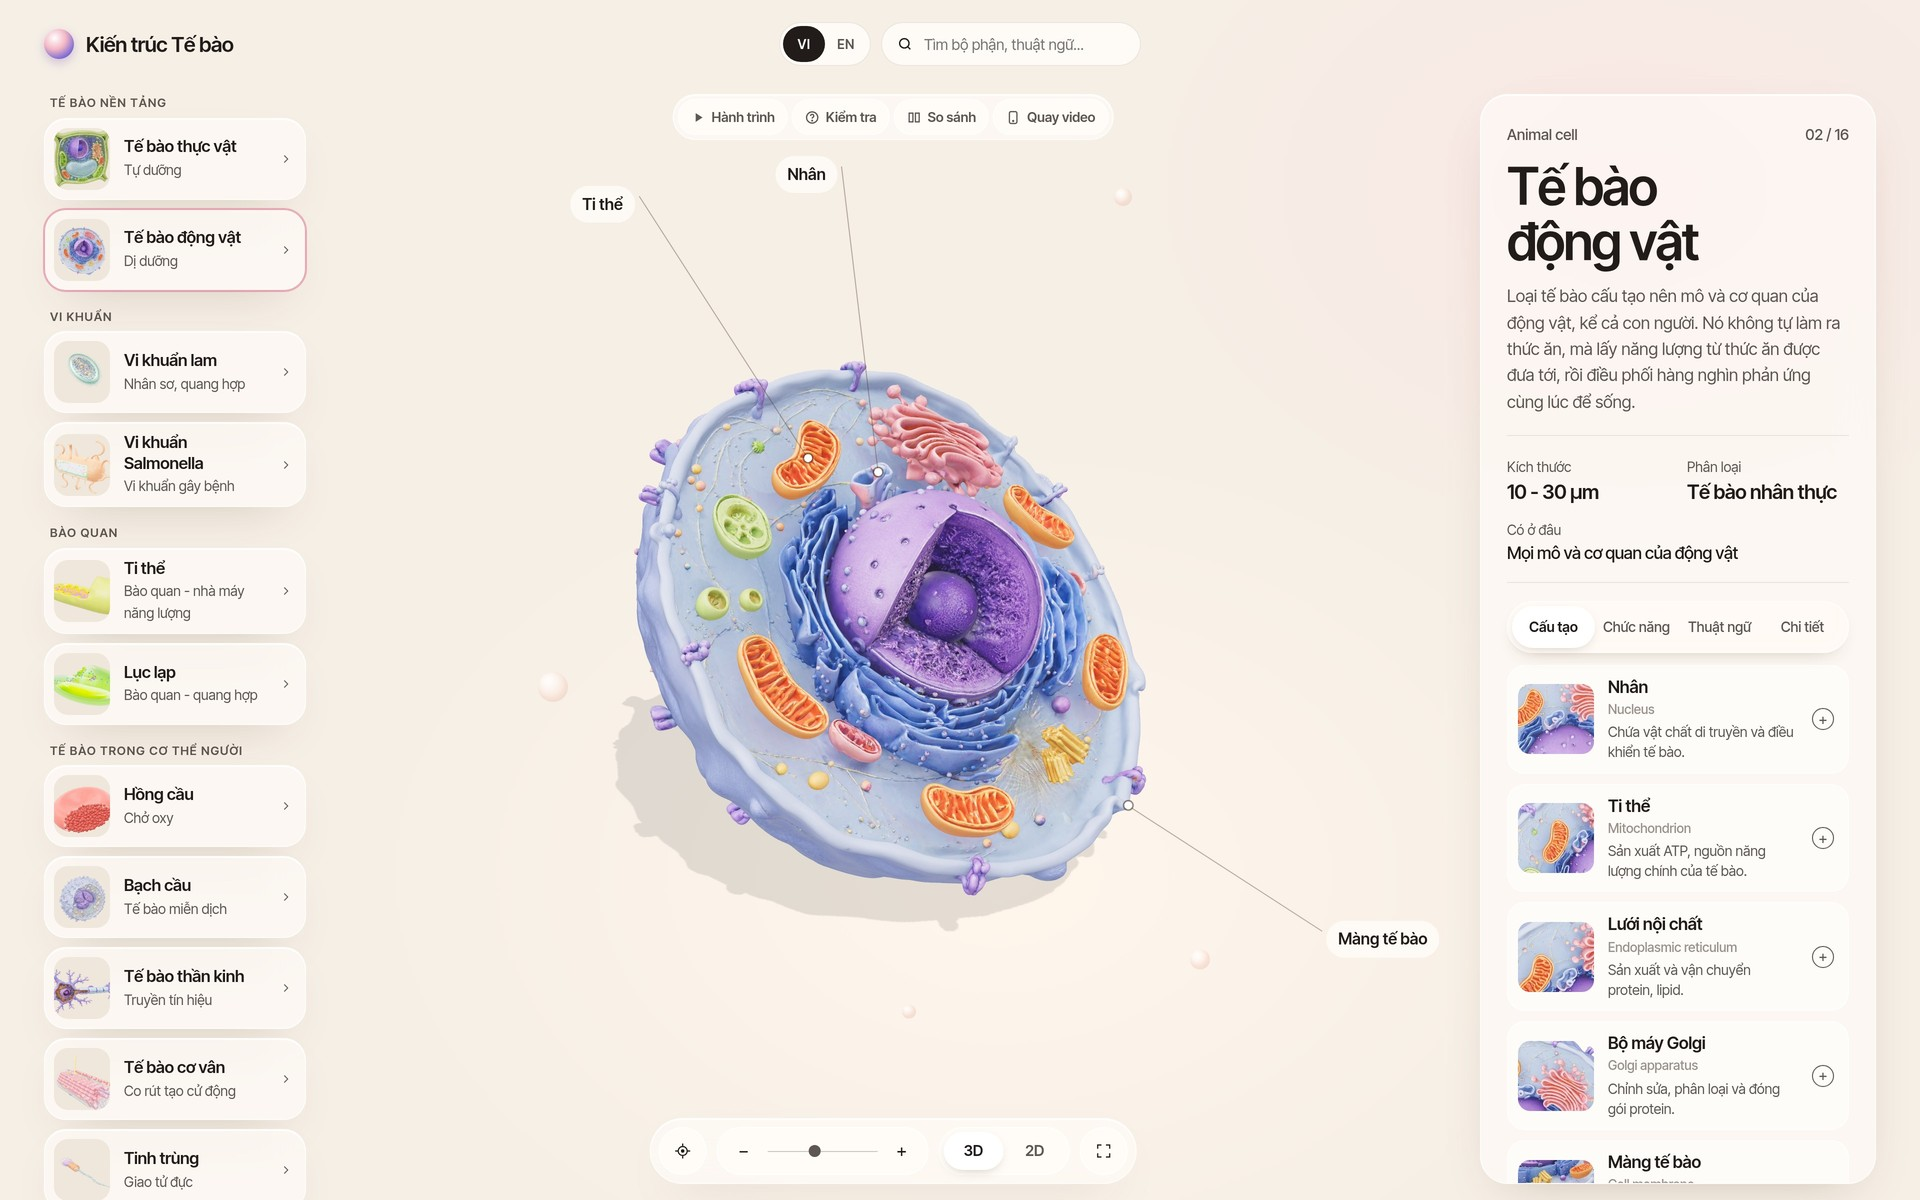
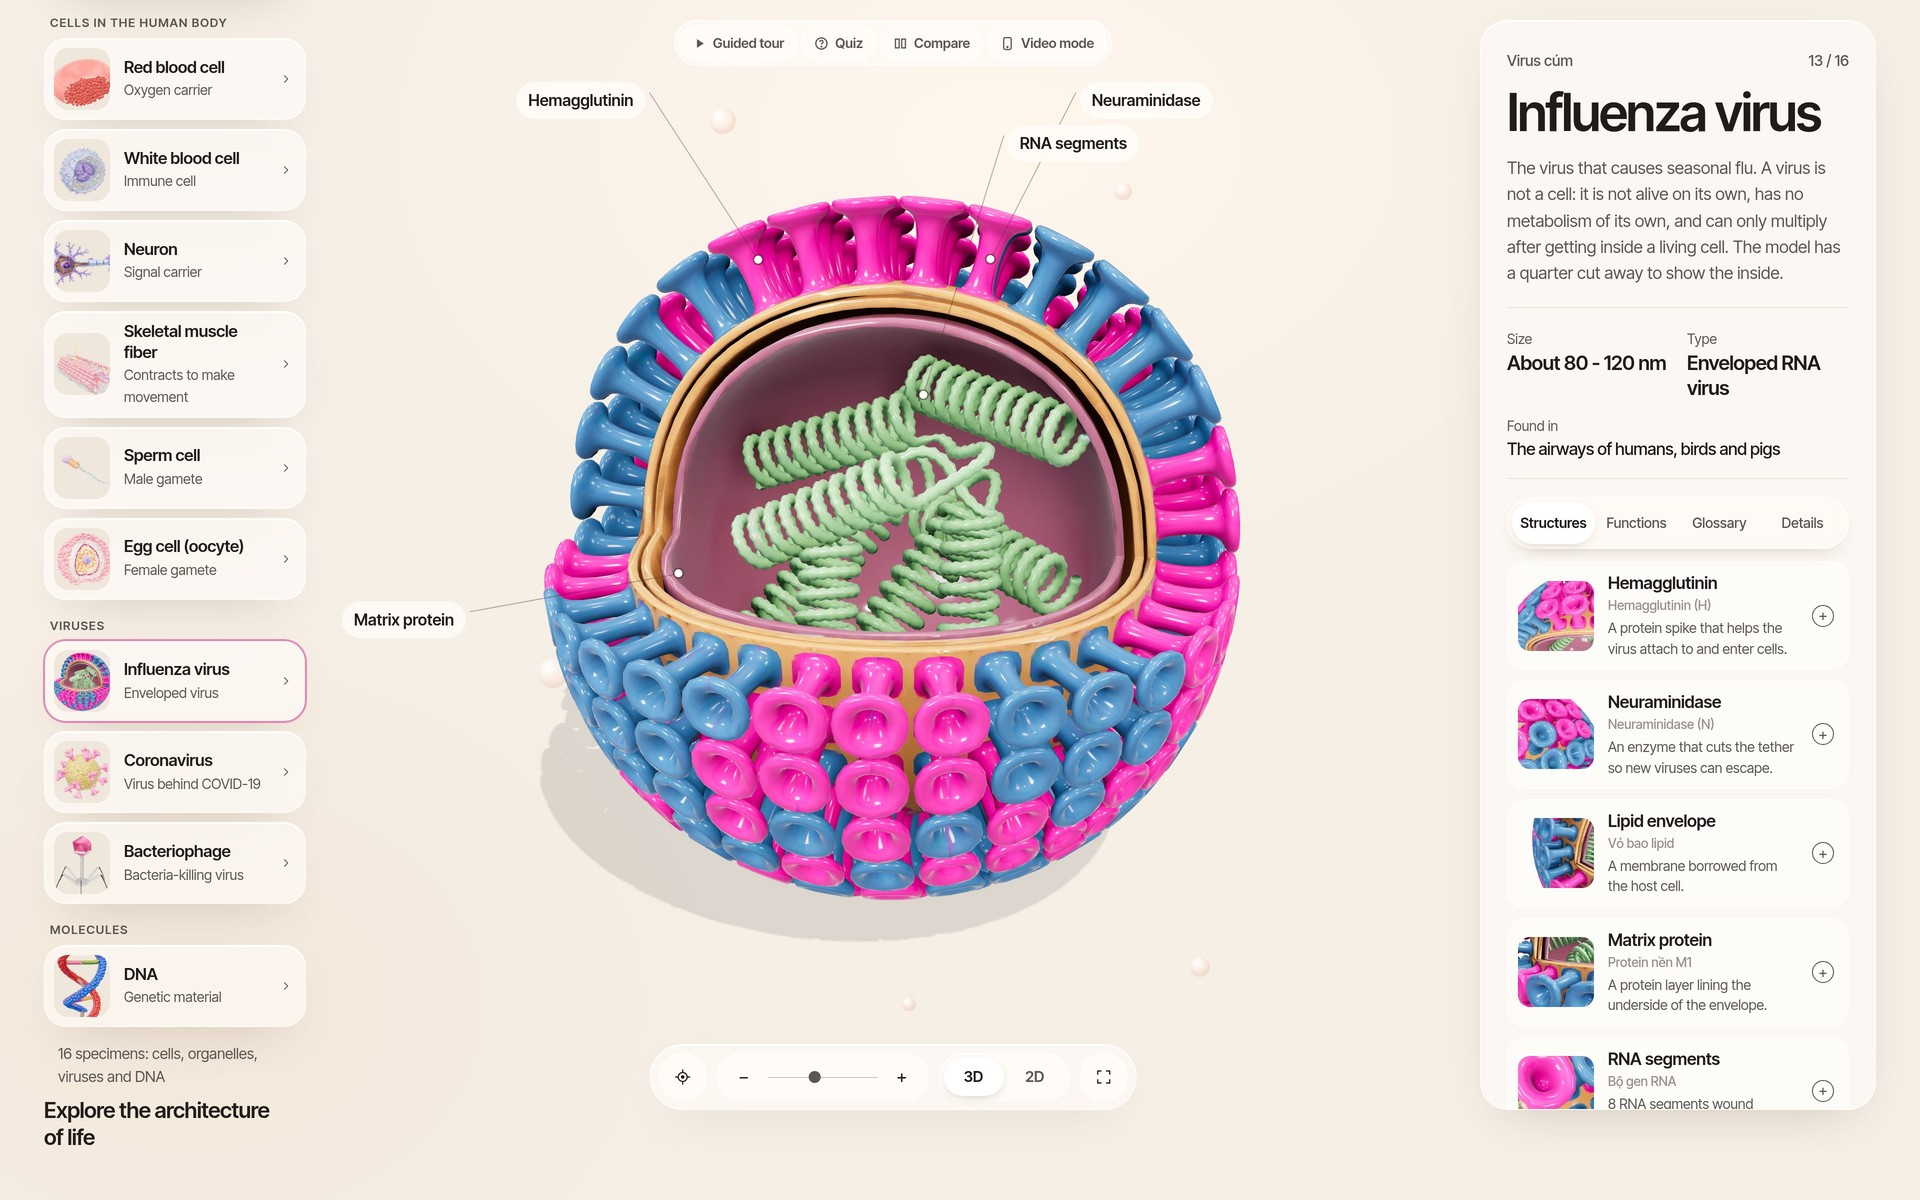
Show the English influenza view on the Cellis card.
The thumbnail is the influenza virus specimen after the app is switched to English and the 3D model has finished loading. The live and in-progress badges stay.

diff --git a/portfolio/index.html b/portfolio/index.html
@@ -881,7 +881,7 @@ details.more>summary:focus-visible{outline:2px solid #a78bfa;outline-offset:2px}
       <article class="card" style="--c1:rgba(192,132,252,.58);--c2:rgba(244,114,182,.38);--c1s:#d8b4fe;--glow:rgba(192,132,252,.45)">
         <div class="shot">
           <div class="fb">🧬</div>
-          <div class="frame"><div class="bar"><i></i><i></i><i></i><em>cellis-gamma.vercel.app</em></div><img src="img/cellis.jpg" alt="Cellis, a labeled 3D model of an animal cell" loading="lazy" onerror="this.parentNode.remove()"></div>
+          <div class="frame"><div class="bar"><i></i><i></i><i></i><em>cellis-gamma.vercel.app</em></div><img src="img/cellis.jpg" alt="Cellis, a labeled 3D model of an influenza virus" loading="lazy" onerror="this.parentNode.remove()"></div>
         </div>
         <div class="info">
           <div class="head">
